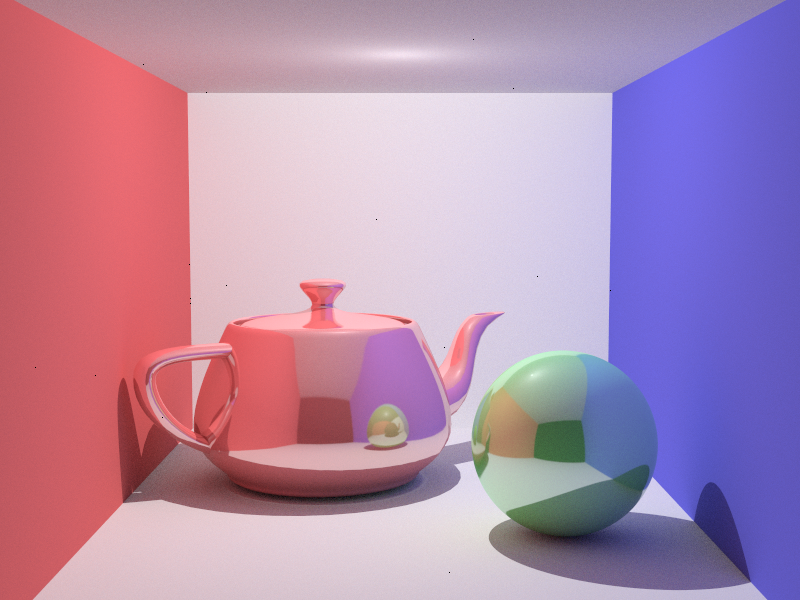
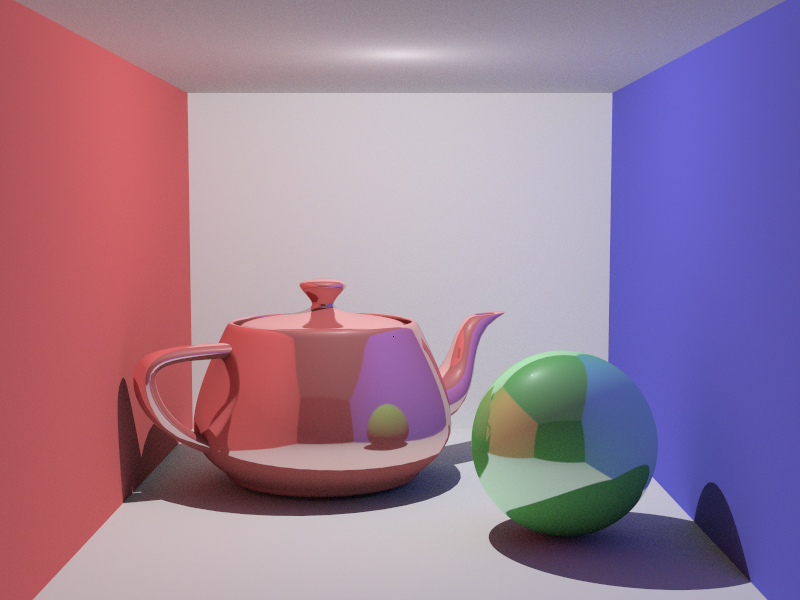
Tmp save

diff --git a/RayTracingRenderer/RayTracingRenderer/utility.h b/RayTracingRenderer/RayTracingRenderer/utility.h
@@ -52,61 +52,135 @@ namespace Utility
 		dir.Normalize();
 	}
 
-	inline void HemisphereUniformSampling(Vec3f & dir)
+	//inline void HemisphereUniformSampling(Vec3f & dir)
+	//{
+	//	Vec3f randomvec = Vec3f((static_cast<float>(rand()) / (RAND_MAX)), (static_cast<float>(rand()) / (RAND_MAX)), (static_cast<float>(rand()) / (RAND_MAX)));
+	//	Vec3f x_dir = dir.Cross(randomvec);
+	//	Vec3f y_dir = dir.Cross(x_dir);
+	//	x_dir.Normalize();
+	//	y_dir.Normalize();
+
+	//	float theta = (static_cast<float>(rand()) / (RAND_MAX));
+	//	float phy = (static_cast<float>(rand()) / (RAND_MAX));
+
+	//	float x_length = cosf(2 * static_cast<float>(M_PI) * phy) * sqrtf(1 - (1- theta) * (1 - theta));
+	//	float y_length = sinf(2 * static_cast<float>(M_PI) * phy) * sqrtf(1 - (1 - theta) * (1 - theta));
+	//	float z_length = 1 - theta;
+
+	//	dir = x_length * x_dir + y_length * y_dir + z_length * dir;
+	//}
+
+	//inline void CosineWeightedHemisphereUniformSampling(Vec3f & dir)
+	//{
+	//	Vec3f randomvec = Vec3f((static_cast<float>(rand()) / (RAND_MAX)), (static_cast<float>(rand()) / (RAND_MAX)), (static_cast<float>(rand()) / (RAND_MAX)));
+	//	Vec3f x_dir = dir.Cross(randomvec);
+	//	Vec3f y_dir = dir.Cross(x_dir);
+	//	x_dir.Normalize();
+	//	y_dir.Normalize();
+
+	//	float theta = (static_cast<float>(rand()) / (RAND_MAX));
+	//	float phy = (static_cast<float>(rand()) / (RAND_MAX));
+
+	//	float x_length = cosf(2 * static_cast<float>(M_PI) * phy) * sqrtf(theta);
+	//	float y_length = sinf(2 * static_cast<float>(M_PI) * phy) * sqrtf(theta);
+	//	float z_length = sqrtf(1 - theta);
+
+	//	dir = x_length * x_dir + y_length * y_dir + z_length * dir;
+	//}
+
+	//inline void SpecularWeightedHemisphereSampling(Vec3f & dir, float glossiness)
+	//{
+	//	Vec3f randomvec = Vec3f((static_cast<float>(rand()) / (RAND_MAX)), (static_cast<float>(rand()) / (RAND_MAX)), (static_cast<float>(rand()) / (RAND_MAX)));
+	//	Vec3f x_dir = dir.Cross(randomvec);
+	//	Vec3f y_dir = dir.Cross(x_dir);
+	//	x_dir.Normalize();
+	//	y_dir.Normalize();
+
+	//	float theta = (static_cast<float>(rand()) / (RAND_MAX));
+	//	float phy = 2 * static_cast<float>(M_PI) * (static_cast<float>(rand()) / (RAND_MAX));
+
+	//	float theta2 = acosf(pow(theta, 1/(1+ glossiness)));
+
+	//	Vec3f randomradiusdir = sinf(phy) * x_dir + cosf(phy) * y_dir;
+	//	randomradiusdir.Normalize();
+	//	randomradiusdir *= tanf(theta2);
+
+	//	dir += randomradiusdir;
+	//	dir.Normalize();
+	//}
+
+	inline float GetUniformRamdomFloat()
 	{
-		Vec3f randomvec = Vec3f((static_cast<float>(rand()) / (RAND_MAX)), (static_cast<float>(rand()) / (RAND_MAX)), (static_cast<float>(rand()) / (RAND_MAX)));
-		Vec3f x_dir = dir.Cross(randomvec);
-		Vec3f y_dir = dir.Cross(x_dir);
+		return (static_cast<float>(rand()) / (RAND_MAX));
+	}
+
+	inline Vec3f HemisphereUniformSampling(const Vec3f & z_dir, float theta, float phy)
+	{
+		Vec3f x_dir;
+		if (z_dir.y != 0 && z_dir.x != 0)
+		{
+			x_dir = Vec3f(-1 * z_dir.y, z_dir.x, 0);
+		}
+		else
+		{
+			x_dir = Vec3f(0, -1 * z_dir.z, z_dir.y);
+		}
+		Vec3f y_dir = z_dir.Cross(x_dir);
 		x_dir.Normalize();
 		y_dir.Normalize();
 
-		float theta = (static_cast<float>(rand()) / (RAND_MAX));
-		float phy = (static_cast<float>(rand()) / (RAND_MAX));
-
-		float x_length = cosf(2 * static_cast<float>(M_PI) * phy) * sqrtf(1 - (1- theta) * (1 - theta));
+		float x_length = cosf(2 * static_cast<float>(M_PI) * phy) * sqrtf(1 - (1 - theta) * (1 - theta));
 		float y_length = sinf(2 * static_cast<float>(M_PI) * phy) * sqrtf(1 - (1 - theta) * (1 - theta));
 		float z_length = 1 - theta;
 
-		dir = x_length * x_dir + y_length * y_dir + z_length * dir;
+		return x_length * x_dir + y_length * y_dir + z_length * z_dir;
 	}
 
-	inline void CosineWeightedHemisphereUniformSampling(Vec3f & dir)
+	inline Vec3f CosineWeightedHemisphereUniformSampling(const Vec3f & z_dir, float theta, float phy)
 	{
-		Vec3f randomvec = Vec3f((static_cast<float>(rand()) / (RAND_MAX)), (static_cast<float>(rand()) / (RAND_MAX)), (static_cast<float>(rand()) / (RAND_MAX)));
-		Vec3f x_dir = dir.Cross(randomvec);
-		Vec3f y_dir = dir.Cross(x_dir);
+		Vec3f x_dir;
+		if (z_dir.y != 0 && z_dir.x != 0)
+		{
+			x_dir = Vec3f(-1 * z_dir.y, z_dir.x, 0);
+		}
+		else
+		{
+			x_dir = Vec3f(0, -1 * z_dir.z, z_dir.y);
+		}
+		Vec3f y_dir = z_dir.Cross(x_dir);
 		x_dir.Normalize();
 		y_dir.Normalize();
-
-		float theta = (static_cast<float>(rand()) / (RAND_MAX));
-		float phy = (static_cast<float>(rand()) / (RAND_MAX));
 
 		float x_length = cosf(2 * static_cast<float>(M_PI) * phy) * sqrtf(theta);
 		float y_length = sinf(2 * static_cast<float>(M_PI) * phy) * sqrtf(theta);
 		float z_length = sqrtf(1 - theta);
 
-		dir = x_length * x_dir + y_length * y_dir + z_length * dir;
+		return x_length * x_dir + y_length * y_dir + z_length * z_dir;
 	}
 
-	inline void SpecularWeightedHemisphereSampling(Vec3f & dir, float glossiness)
+	inline Vec3f SpecularWeightedHemisphereSampling(const Vec3f & z_dir, const float & alpha, float theta, float phy)
 	{
-		Vec3f randomvec = Vec3f((static_cast<float>(rand()) / (RAND_MAX)), (static_cast<float>(rand()) / (RAND_MAX)), (static_cast<float>(rand()) / (RAND_MAX)));
-		Vec3f x_dir = dir.Cross(randomvec);
-		Vec3f y_dir = dir.Cross(x_dir);
+		Vec3f x_dir;
+		if (z_dir.y != 0 && z_dir.x != 0)
+		{
+			x_dir = Vec3f(-1 * z_dir.y, z_dir.x, 0);
+		}
+		else
+		{
+			x_dir = Vec3f(0, -1 * z_dir.z, z_dir.y);
+		}
+		Vec3f y_dir = z_dir.Cross(x_dir);
 		x_dir.Normalize();
 		y_dir.Normalize();
 
-		float theta = (static_cast<float>(rand()) / (RAND_MAX));
-		float phy = 2 * static_cast<float>(M_PI) * (static_cast<float>(rand()) / (RAND_MAX));
-
-		float theta2 = acosf(pow(theta, 1/(1+ glossiness)));
+		theta = acosf(pow(theta, 1 / (1 + alpha)));
+		phy *= 2 * static_cast<float>(M_PI);
 
 		Vec3f randomradiusdir = sinf(phy) * x_dir + cosf(phy) * y_dir;
 		randomradiusdir.Normalize();
-		randomradiusdir *= tanf(theta2);
+		randomradiusdir *= tanf(theta);
 
-		dir += randomradiusdir;
-		dir.Normalize();
+		return z_dir + randomradiusdir;
 	}
 }
 

diff --git a/RayTracingRenderer/RayTracingRenderer/RayTracingRenderer.cpp b/RayTracingRenderer/RayTracingRenderer/RayTracingRenderer.cpp
@@ -36,13 +36,13 @@ using namespace ReflectionAndRefraction;
 
 int main()
 {
-	//LoadScene(".\\xmlfiles\\playground.xml");
+	LoadScene(".\\xmlfiles\\playground4.xml");
 	//LoadScene(".\\xmlfiles\\catscene.xml");
 	//LoadScene(".\\xmlfiles\\potscene.xml");
 	//LoadScene(".\\xmlfiles\\assignment10.xml");
 	//LoadScene(".\\xmlfiles\\assignment11_2.xml");
 	//LoadScene(".\\xmlfiles\\bosonscene.xml");
-	LoadScene(".\\xmlfiles\\assignment11.xml");
+	//LoadScene(".\\xmlfiles\\assignment11.xml");
 	//LoadScene(".\\xmlfiles\\assignment4.xml");
 	ShowViewport();
 }
@@ -107,12 +107,6 @@ Color InitialRayTraverse(Ray ray)
 	if (hit.node != nullptr)
 	{
 		Color returnColor = materials.Find(hit.node->GetMaterial()->GetName())->Shade(ray, hit, lights, 0);
-		if (isnan(returnColor.r) || isnan(returnColor.g) || isnan(returnColor.b))
-		{
-			int t = 5;
-			t += returnColor.r;
-			printf("hello %d", t);
-		}
 		return returnColor;
 	}
 	else
@@ -236,6 +230,11 @@ void BeginRender() {
 			//zbuffers[i * renderImage.GetWidth() + j] = hit.z;
 		#endif 
 
+			if (isnan(resultColor.r) || isnan(resultColor.g) || isnan(resultColor.b))
+			{	
+				printf("There is some NaN in the calculation process\n");
+			}
+
 			// gamma correction
 		#ifdef ENABLEGAMMA
 				resultColor.r = pow(resultColor.r, 1 / 2.2f);
@@ -272,6 +271,11 @@ Color MtlBlinn::Shade(Ray const & ray, const HitInfo & hInfo, const LightList & 
 	Color color = Color(0, 0, 0);
 	Color specularpart = Color(0, 0, 0);
 	Color diffusepart = Color(0, 0, 0);
+
+	if (ray.p == hInfo.p)
+	{
+		return color;
+	}
 
 	for (auto light = lights.begin(); light != lights.end(); ++light)
 	{
@@ -319,14 +323,17 @@ Color MtlBlinn::Shade(Ray const & ray, const HitInfo & hInfo, const LightList & 
 		}
 	}
 #ifdef ENABLEPT
+
+	float theta = GetUniformRamdomFloat();
+	float phy = GetUniformRamdomFloat();
+
 	// Diffuse part for GI
 	if (bounce < GIBOUNCE)
 	{
 		int bouncetime = bounce + 1;
 		Color returnColor = Color(0, 0, 0);
-		Vec3f N_dash = N;
 
-		CosineWeightedHemisphereUniformSampling(N_dash);
+		Vec3f N_dash = CosineWeightedHemisphereUniformSampling(N, theta, phy);
 
 		Ray ray_gi;
 		ray_gi.p = hInfo.p;
@@ -334,7 +341,7 @@ Color MtlBlinn::Shade(Ray const & ray, const HitInfo & hInfo, const LightList & 
 		ray_gi.dir = N_dash;
 
 		returnColor = this->diffuse.Sample(hInfo.uvw, hInfo.duvw) * GlobalIlluminationTraverse(ray_gi, bouncetime);
-		//returnColor *= (1 / static_cast<float>(M_PI));
+		returnColor *= (1 / static_cast<float>(M_PI));
 		color += returnColor;
 	}
 
@@ -348,12 +355,12 @@ Color MtlBlinn::Shade(Ray const & ray, const HitInfo & hInfo, const LightList & 
 		Vec3f R = 2 * (N.Dot(V)) * N - V;
 		R.Normalize();
 
-		SpecularWeightedHemisphereSampling(R, this->glossiness);
+		Vec3f D_dash = SpecularWeightedHemisphereSampling(R, this->glossiness, theta, phy);
 
 		Ray ray_gi;
 		ray_gi.p = hInfo.p;
 		ray_gi.p += SHADOWBIAS * N;
-		ray_gi.dir = R;
+		ray_gi.dir = D_dash;
 
 		returnColor = this->specular.Sample(hInfo.uvw, hInfo.duvw) * GlobalIlluminationTraverse(ray_gi, bouncetime);
 		//returnColor *= ((this->glossiness + 2) / 2 *  static_cast<float>(M_PI));
@@ -391,19 +398,7 @@ Color MtlBlinn::Shade(Ray const & ray, const HitInfo & hInfo, const LightList & 
 			color += Color(exp(-1 * absorption.r * hInfo.z) * color.r, exp(-1 * absorption.g * hInfo.z) * color.g, exp(-1 * absorption.b * hInfo.z) * color.b);
 		}
 
-		Color refractioncolor = Color(0, 0, 0);
-
-	#ifdef ENABLEREFRACTIONGLOSSINESS
-		for (int i = 0; i < RAYGLOSSINESS; i++)
-		{
-			refractioncolor += Refraction(ray, hInfo, bounce, ior, refraction.Sample(hInfo.uvw), refractionGlossiness);
-		}
-		refractioncolor /= RAYGLOSSINESS;
-	#else
-		refractioncolor += Refraction(ray, hInfo, bounce, ior, refraction.Sample(hInfo.uvw), refractionGlossiness);
-	#endif //  ENABLEREFRACTIONGLOSSINESS
-
-		color += refractioncolor;
+		color += Refraction(ray, hInfo, bounce, ior, refraction.Sample(hInfo.uvw), refractionGlossiness);
 	}
 #endif
 

diff --git a/RayTracingRenderer/RayTracingRenderer/constant.h b/RayTracingRenderer/RayTracingRenderer/constant.h
@@ -17,8 +17,8 @@
 
 /*****These are values for path tracing*****/
 #define ENABLEPT
-#define RAYPERPT 256
-#define GIBOUNCE 1
+#define RAYPERPT 64
+#define GIBOUNCE 2
 
 //These are the constant values which is highly unlikely to be changed
 #define SHADOWBIAS 0.0005f
